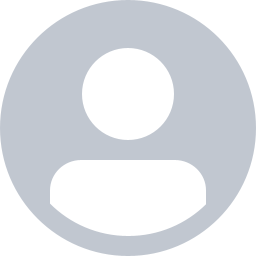
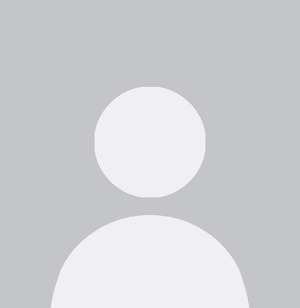
유저 기본이미지 변경 및 크레딧 이미지 수정 별점 반으로 나누기

diff --git a/src/pages/DetailPage/DetailPage.js b/src/pages/DetailPage/DetailPage.js
@@ -303,7 +303,7 @@ const DetailPage = ({userInfo, openLogin}) => {
                         </div>
                         <ul className="poster-bottom">
                             <li>별점 그래프</li>
-                            <li>평균 <i className="bi bi-star-fill"></i> {contentDetail?.contentInfo?.ratingAvg?.toFixed(1)}
+                            <li>평균 <i className="bi bi-star-fill"></i> {(contentDetail?.contentInfo?.ratingAvg / 2).toFixed(1)}
                                 <span className="poster-bottom-num"> &#40;{contentDetail?.ratingCount}명&#41;</span>
                             </li>
                             {/*별점 그래프 들어갈 자리*/}
@@ -368,7 +368,7 @@ const DetailPage = ({userInfo, openLogin}) => {
 
                             {/*평균 별점 표시*/}
                             <div className="info-top-center">
-                                <p className="average-rating">{contentDetail?.contentInfo?.ratingAvg?.toFixed(1)}</p>
+                                <p className="average-rating">{(contentDetail?.contentInfo?.ratingAvg / 2).toFixed(1)}</p>
                                 <p className="average-rating-text">평균 별점 <span className="average-rating-num">&#40;{contentDetail?.ratingCount}명&#41;</span></p>
                             </div>
 

diff --git a/src/pages/PersonDetailPage/PersonDetailPage.js b/src/pages/PersonDetailPage/PersonDetailPage.js
@@ -176,7 +176,7 @@ const PersonDetailPage = ({userInfo, openLogin}) => {
 
                                                 <div className="domain-list-ratingAvg">
                                                     {item.ratingAvg && (
-                                                        <div>평균 <i className="bi bi-star-fill"/> {item.ratingAvg.toFixed(1)}</div>
+                                                        <div>평균 <i className="bi bi-star-fill"/> {(item.ratingAvg / 2).toFixed(1)}</div>
                                                     )}
                                                 </div>
 

diff --git a/src/components/CreditOrPersonCard/CreditOrPersonCard.css b/src/components/CreditOrPersonCard/CreditOrPersonCard.css
@@ -5,22 +5,24 @@
     height: 100%;
 }
 
-.credit-card-image {
-    width: 60px;
-}
-
-.credit-card-image img {
-    width: 100%;
-    max-width: 150px;
-    border-radius: 4px;
-    object-fit: cover;
-    display: block;
-}
-
 .credit-card-inner {
     display: flex;
     align-items: center;
     gap: 8px;
+}
+
+.credit-card-image {
+    width: 50px;
+    height: 50px;
+    flex-shrink: 0;
+}
+
+.credit-card-image>img {
+    display: block;
+    width: 100%;
+    height: 100%;
+    border-radius: 4px;
+    object-fit: cover;
 }
 
 .credit-card-info {

diff --git a/src/components/ReplyCard/ReplyCard.css b/src/components/ReplyCard/ReplyCard.css
@@ -42,6 +42,8 @@
 
 .reply-card-info-profile>img {
     width: 100%;
+    height: 100%;
+    object-fit: cover;
     display: block;
     border-radius: 50%;
 }
